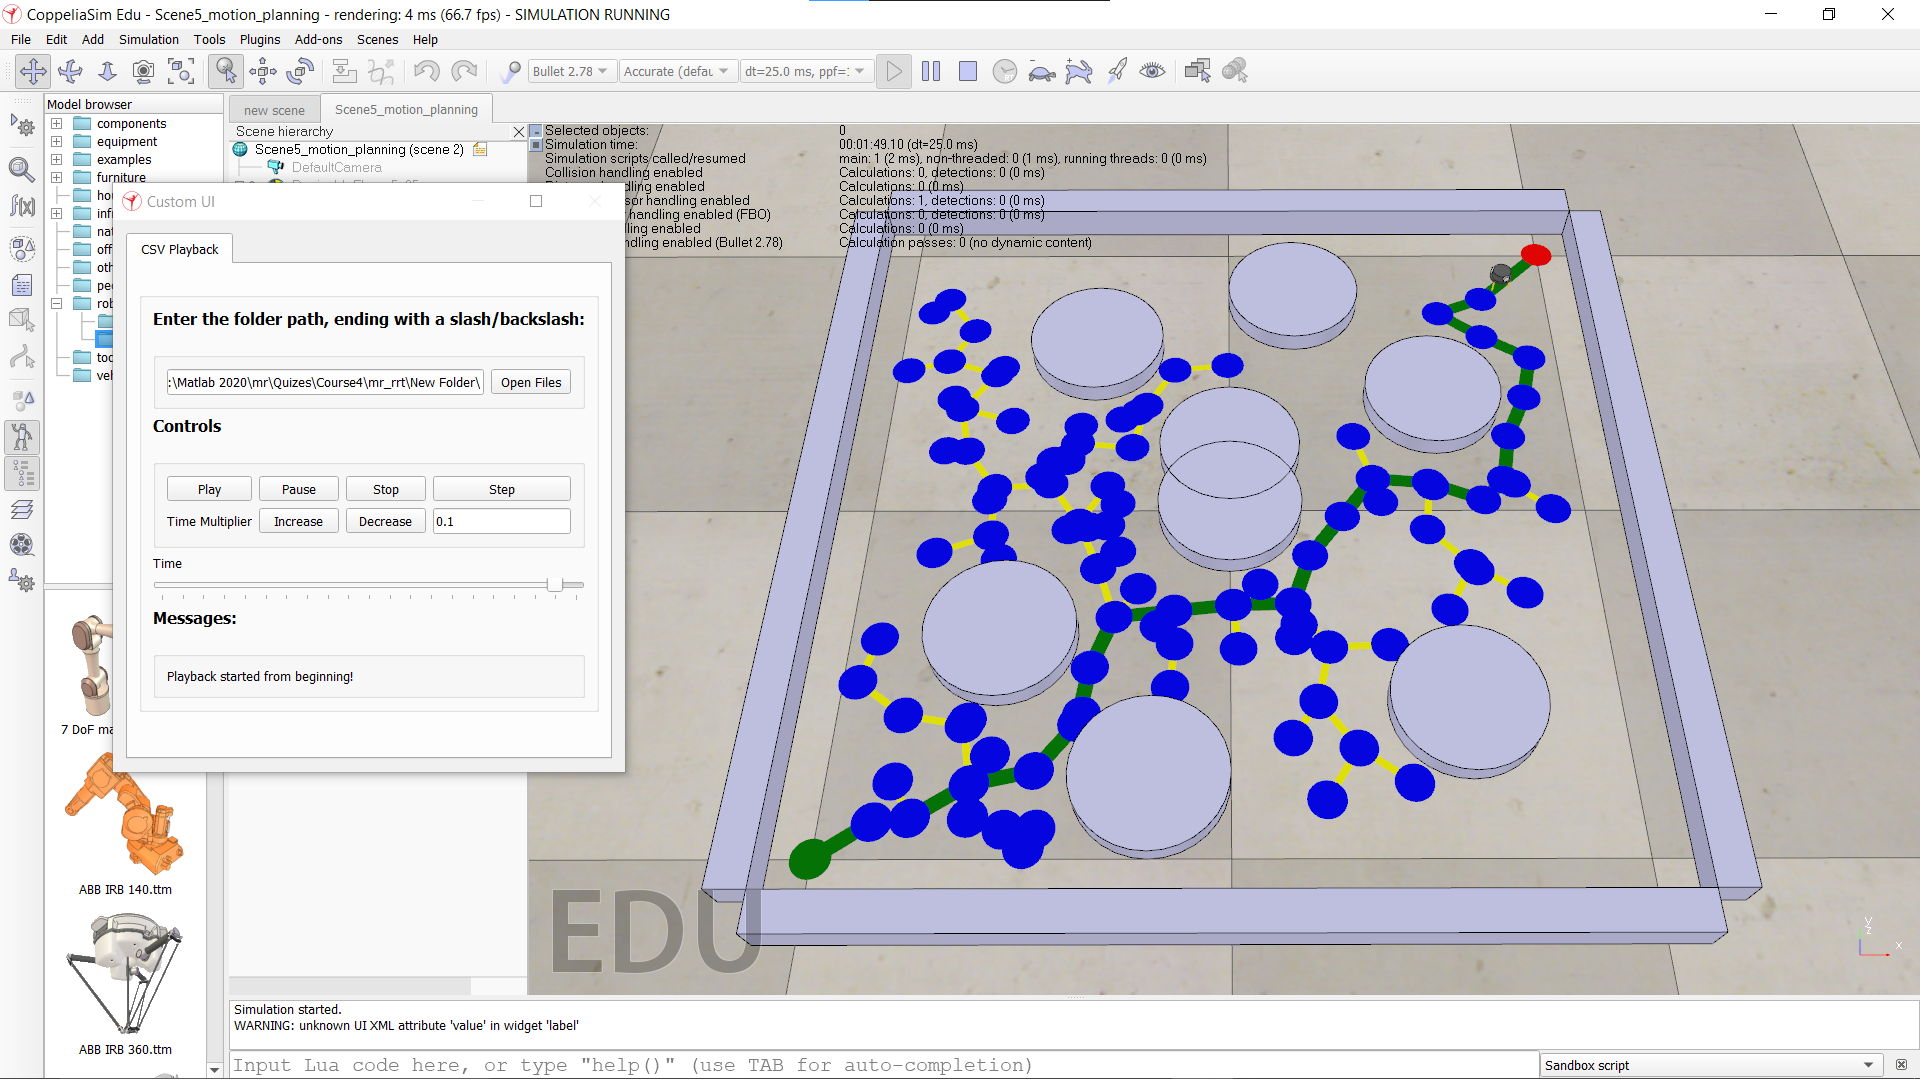
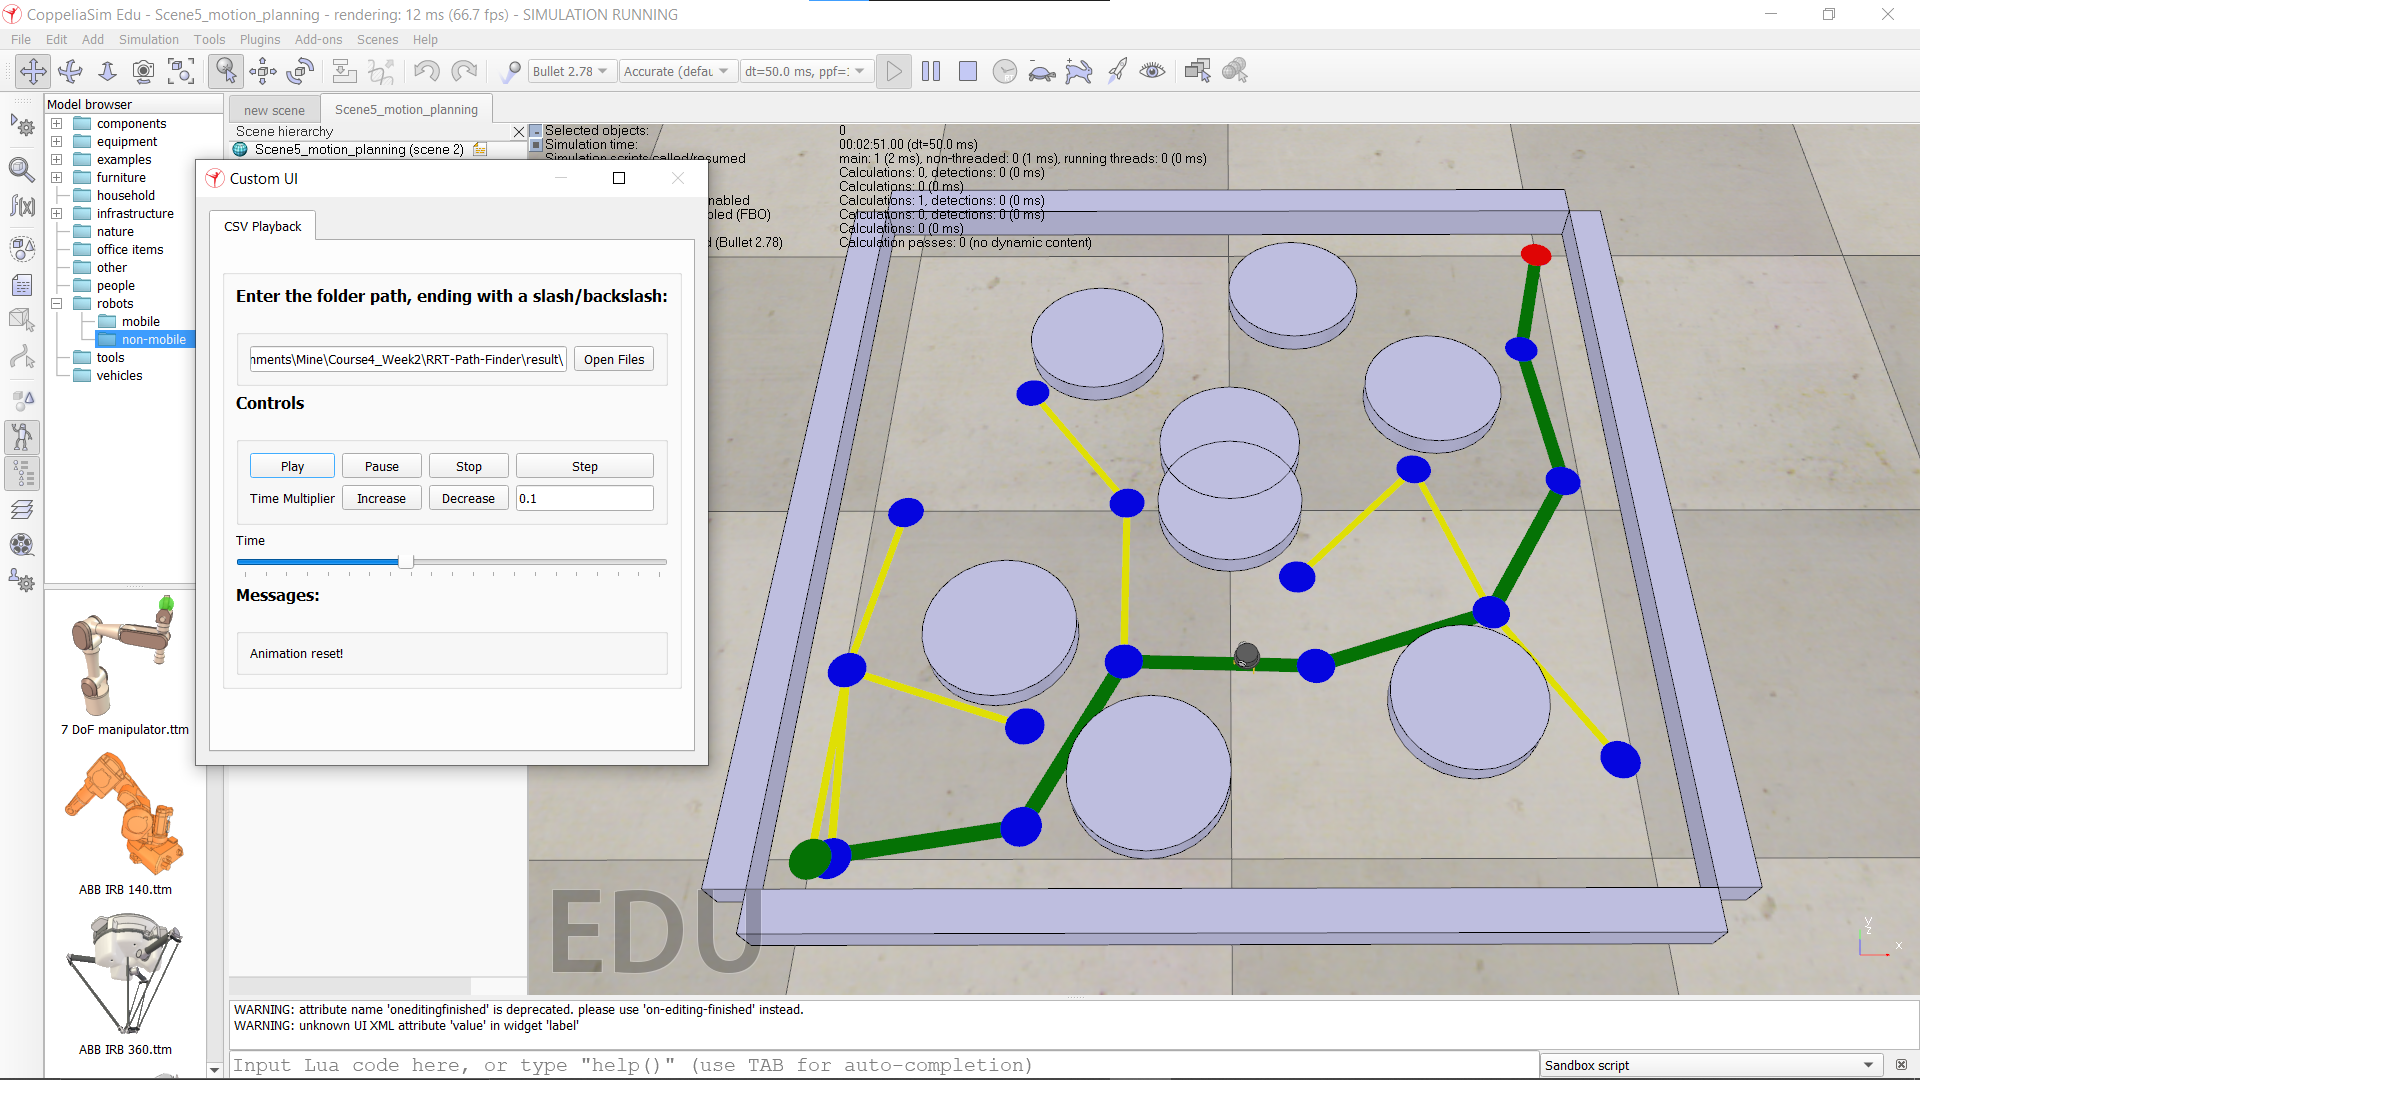
Make another screenshot, better performance.

diff --git a/codes/RRT.m b/codes/RRT.m
@@ -10,7 +10,7 @@ isFound = 0;
 goal_area = 0.25; % bias the goal.
 
 itr = 100;
-max_dist = 0.18;
+max_dist = 0.25;
 edges = zeros(itr, 3);
 rand_node =[];
 nodes = [1, start(1), start(2), euclidean_dist(start, goal)];
